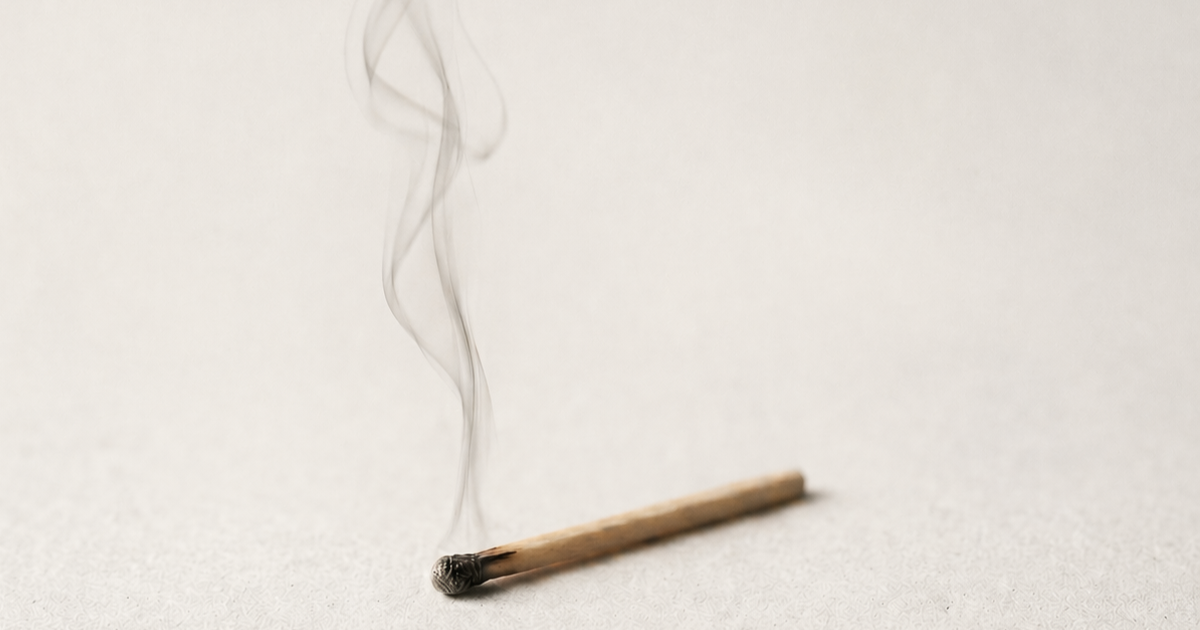
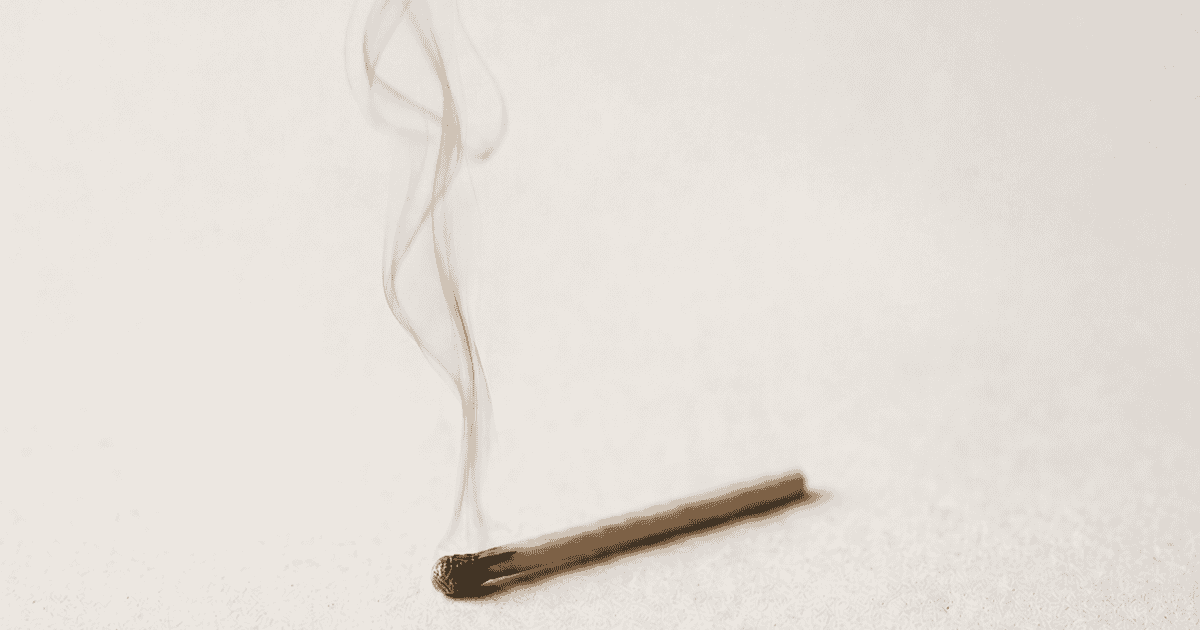
Update Open Graph and Twitter meta tags to use new image paths

Changed region(s): [[0.3392, 0.754, 0.6783, 0.9651]]

diff --git a/index.html b/index.html
@@ -16,14 +16,14 @@
   <meta property="og:description" content="No Fue Más, el nuevo álbum de Chuflay. Escucha previews oficiales y encuentra las redes del proyecto. Presentado por Pucho, Furro, Perro, Xokas y Pilin.">
   <meta property="og:type" content="website">
   <meta property="og:url" content="https://luis1828.github.io/chuflay-nofuemas/">
-  <meta property="og:image" content="https://luis1828.github.io/chuflay-nofuemas/assets/NoFueMas.png">
-  <meta property="og:image:secure_url" content="https://luis1828.github.io/chuflay-nofuemas/assets/NoFueMas.png">
+  <meta property="og:image" content="https://luis1828.github.io/chuflay-nofuemas/assets/og-image-v2.jpg">
+  <meta property="og:image:secure_url" content="https://luis1828.github.io/chuflay-nofuemas/assets/og-image-v2.jpg">
   <meta property="og:image:type" content="image/jpeg">
 
   <meta name="twitter:card" content="summary_large_image">
   <meta name="twitter:title" content="Chuflay - No Fue Más">
   <meta name="twitter:description" content="No Fue Más, el nuevo álbum de Chuflay. Escucha previews oficiales y encuentra las redes del proyecto. Presentado por Pucho, Furro, Perro, Xokas y Pilin.">
-  <meta name="twitter:image" content="https://luis1828.github.io/chuflay-nofuemas/assets/NoFueMas.png">
+  <meta name="twitter:image" content="https://luis1828.github.io/chuflay-nofuemas/assets/og-image-v2.jpg">
 
   <link rel="preconnect" href="https://fonts.googleapis.com">
   <link rel="preconnect" href="https://fonts.gstatic.com" crossorigin>